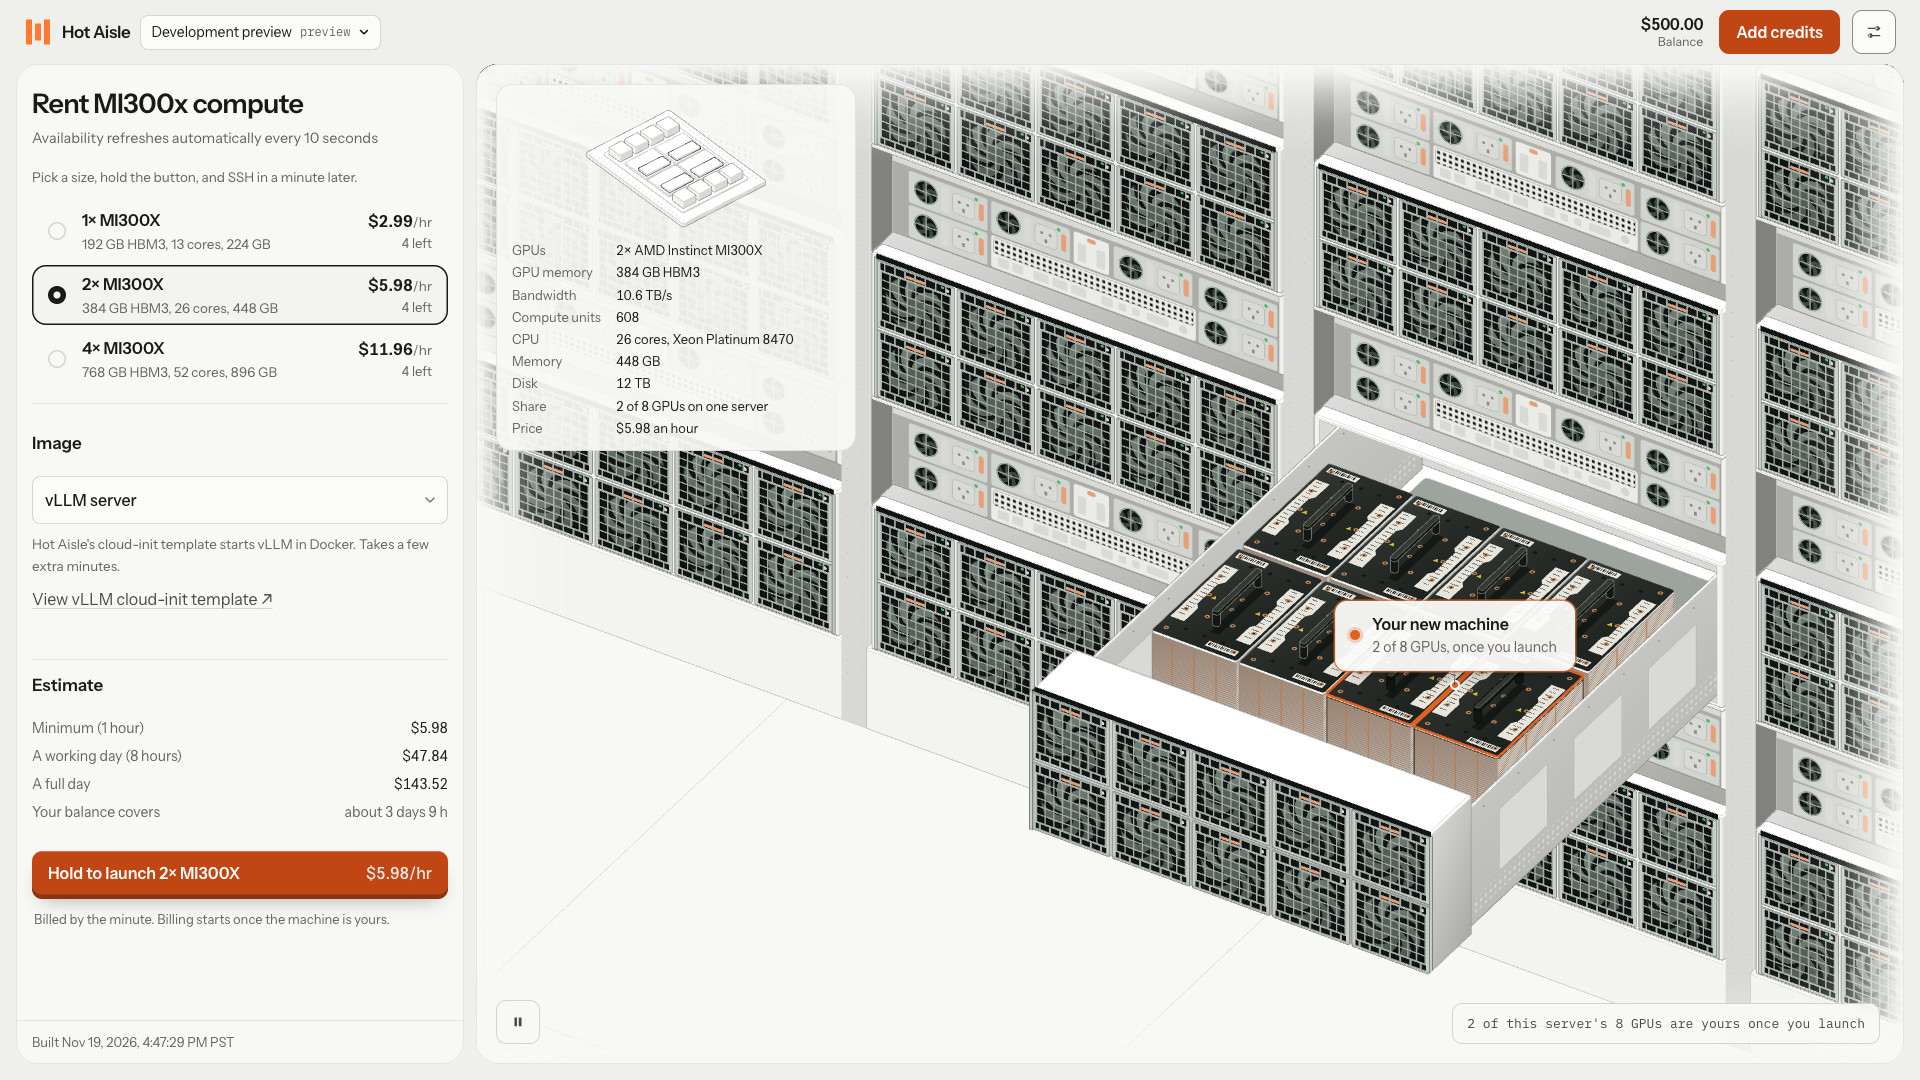
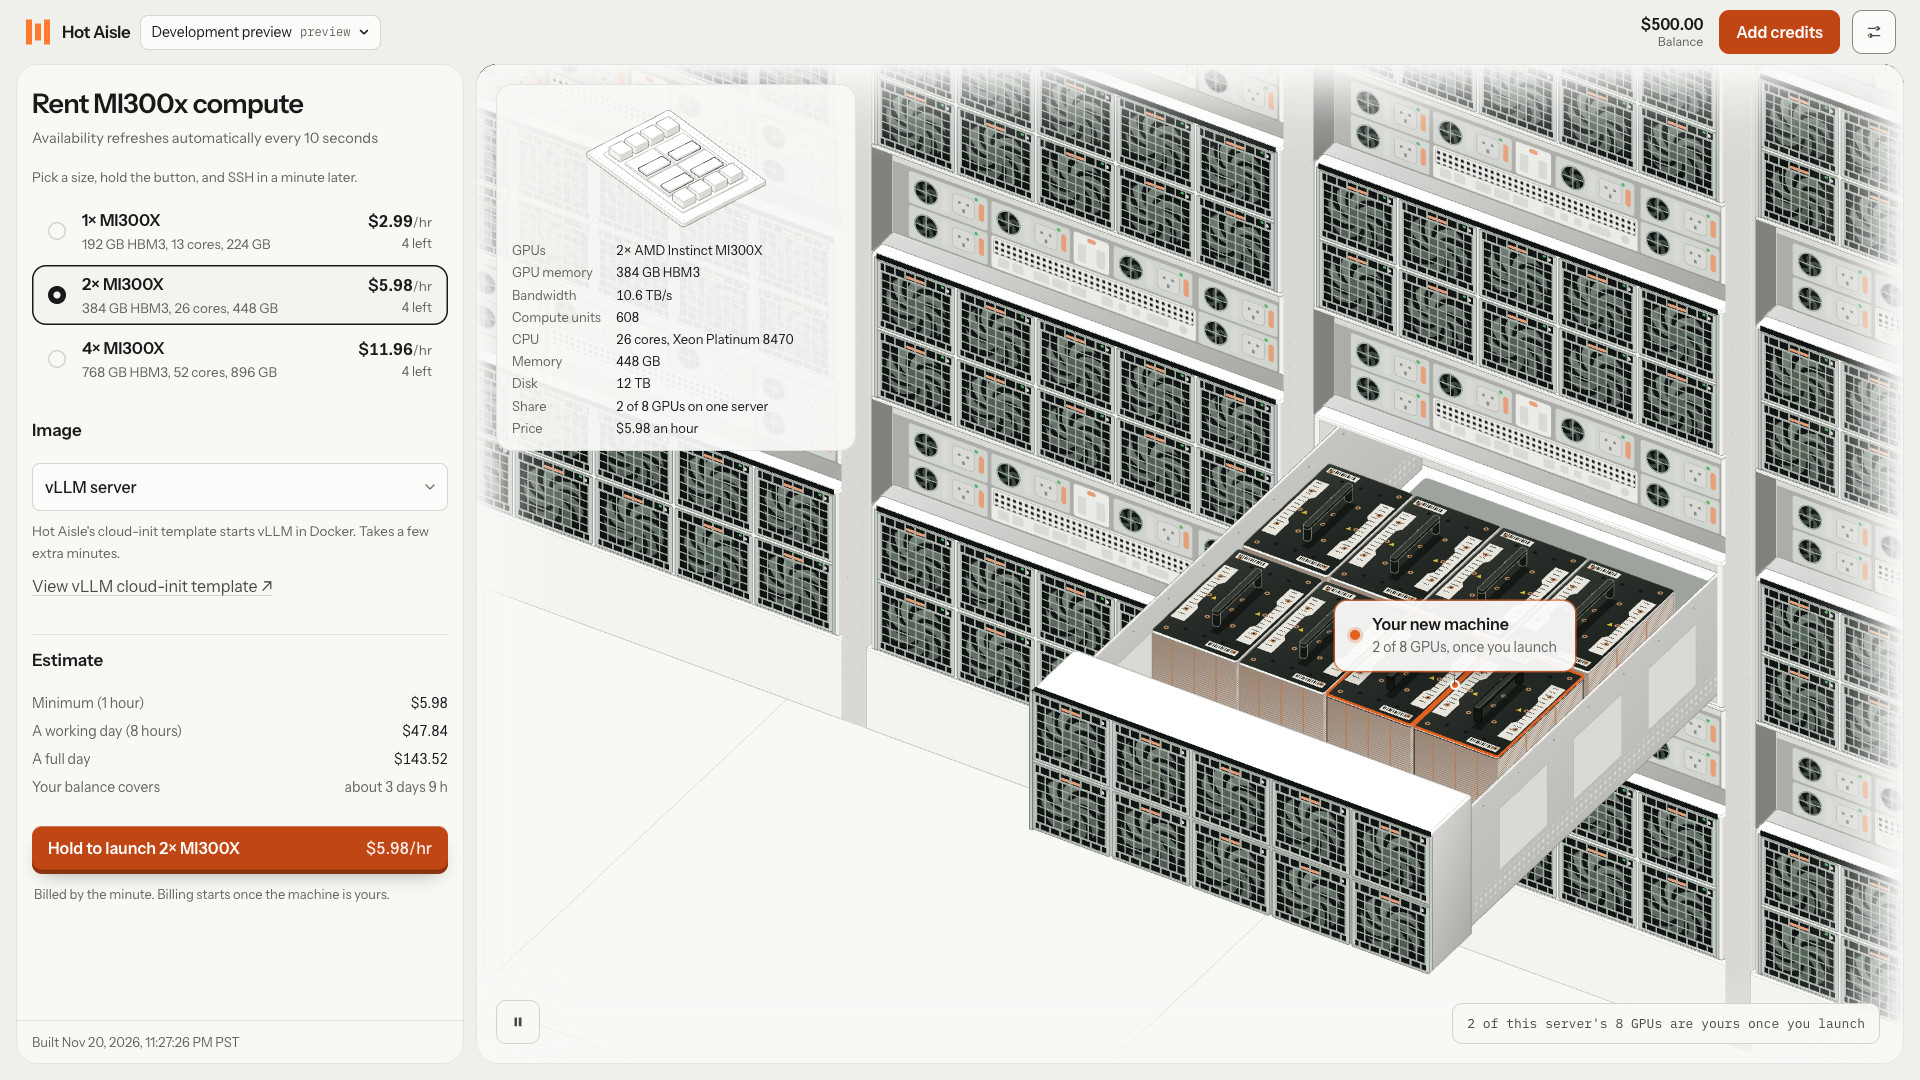
chore(media): refresh screenshots and prepare Heart narration
Refresh light and dark Console captures and remove the obsolete intro caption band.
Use Heart for future narration; keep the Ocean walkthrough local pending music publication permission.

diff --git a/worker/scripts/showcase-artwork.ts b/worker/scripts/showcase-artwork.ts
@@ -96,9 +96,6 @@ ${logo}
 			if (loaded) {
 				// The toolbar reveals the page without stretching or moving its text.
 				context.drawImage(signIn, 0, 0, 1920, 1080);
-				// Playback captions begin with narration, after the browser intro.
-				context.fillStyle = "#171714";
-				context.fillRect(0, 976, 1920, 104);
 			}
 			context.fillStyle = "#292a2d";
 			context.fillRect(0, toolbar - 140, 1920, 140);

diff --git a/worker/scripts/prepare-showcase.ts b/worker/scripts/prepare-showcase.ts
@@ -40,7 +40,7 @@ function command(file: string, args: string[]) {
 }
 
 const MODEL = "onnx-community/Kokoro-82M-v1.0-ONNX";
-const VOICE = "af_bella";
+const VOICE = "af_heart";
 const transformers = await loadShowcaseTool<{ env: { cacheDir: string } }>(
 	"@huggingface/transformers"
 );

diff --git a/docs/media-sync.md b/docs/media-sync.md
@@ -206,10 +206,13 @@ not just JPEGs. Edit the blog source asset directory, never its generated mirror
 ## Compose the video and delivery copy
 
 Follow [music and beat timing](showcase.md#music-and-beat-timing) for the exact
-tracked excerpt and existing voice configuration. Current composition uses the
-provided Flavour Trip excerpt beginning at 33.04 seconds, 118 BPM, Bella's original
-voice pitch/speed, and at most 6 dB music ducking. Keep these choices unless the
-user changes them. The two-minute excerpt is retained in
+tracked excerpt and existing voice configuration. The published take uses the
+provided Flavour Trip excerpt beginning at 33.04 seconds, 118 BPM, and Bella.
+New narration uses Heart at its original pitch/speed, with at most 6 dB music
+ducking. The refreshed Ocean/Heart walkthrough, captions, transcript, and poster
+remain local pending music publication permission. The public video set remains
+unchanged; the refreshed screenshots can be published independently.
+The two-minute Flavour Trip excerpt is retained in
 `tools/showcase/assets/flavour-trip-brunch-excerpt.m4a`, including roughly 23 seconds
 beyond the current edit; a clone includes it. The full recording stays untracked.
 Do not trim the excerpt again or silently substitute a different song or voice.
@@ -273,6 +276,9 @@ theme change, and both cards. Confirm captions/voice agree, actions land in thei
 scenes, pauses are readable, the song remains audible, and text stays in place.
 Check both themes, selected-GPU rings, drawer/fans, specs edges, panel scrolling,
 and unclipped content. A successful encode alone is not visual QA.
+Inspect the browser intro through the fully revealed sign-in frame, not just its
+opening card. Preserve the captured page across its full height; obsolete
+caption-background strips can create a visible band before the walkthrough starts.
 
 In Console, run the required checks for changed code and the Worker suite before
 each commit. For media packaging changes, verify the normal production build and

diff --git a/docs/showcase.md b/docs/showcase.md
@@ -31,7 +31,7 @@ bun install --cwd tools/showcase --frozen-lockfile
 bun run showcase
 ```
 
-This generates narration locally with Kokoro's Bella female voice and FFmpeg, then
+This generates narration locally with Kokoro's Heart female voice and FFmpeg, then
 builds preview assets. It uses the fixed voice at its original pitch and speed.
 The first run downloads the public 82M model into ignored `tools/showcase/.cache/`.
 Speech runs on the CPU; narration is not sent to a speech service. Native media tools
